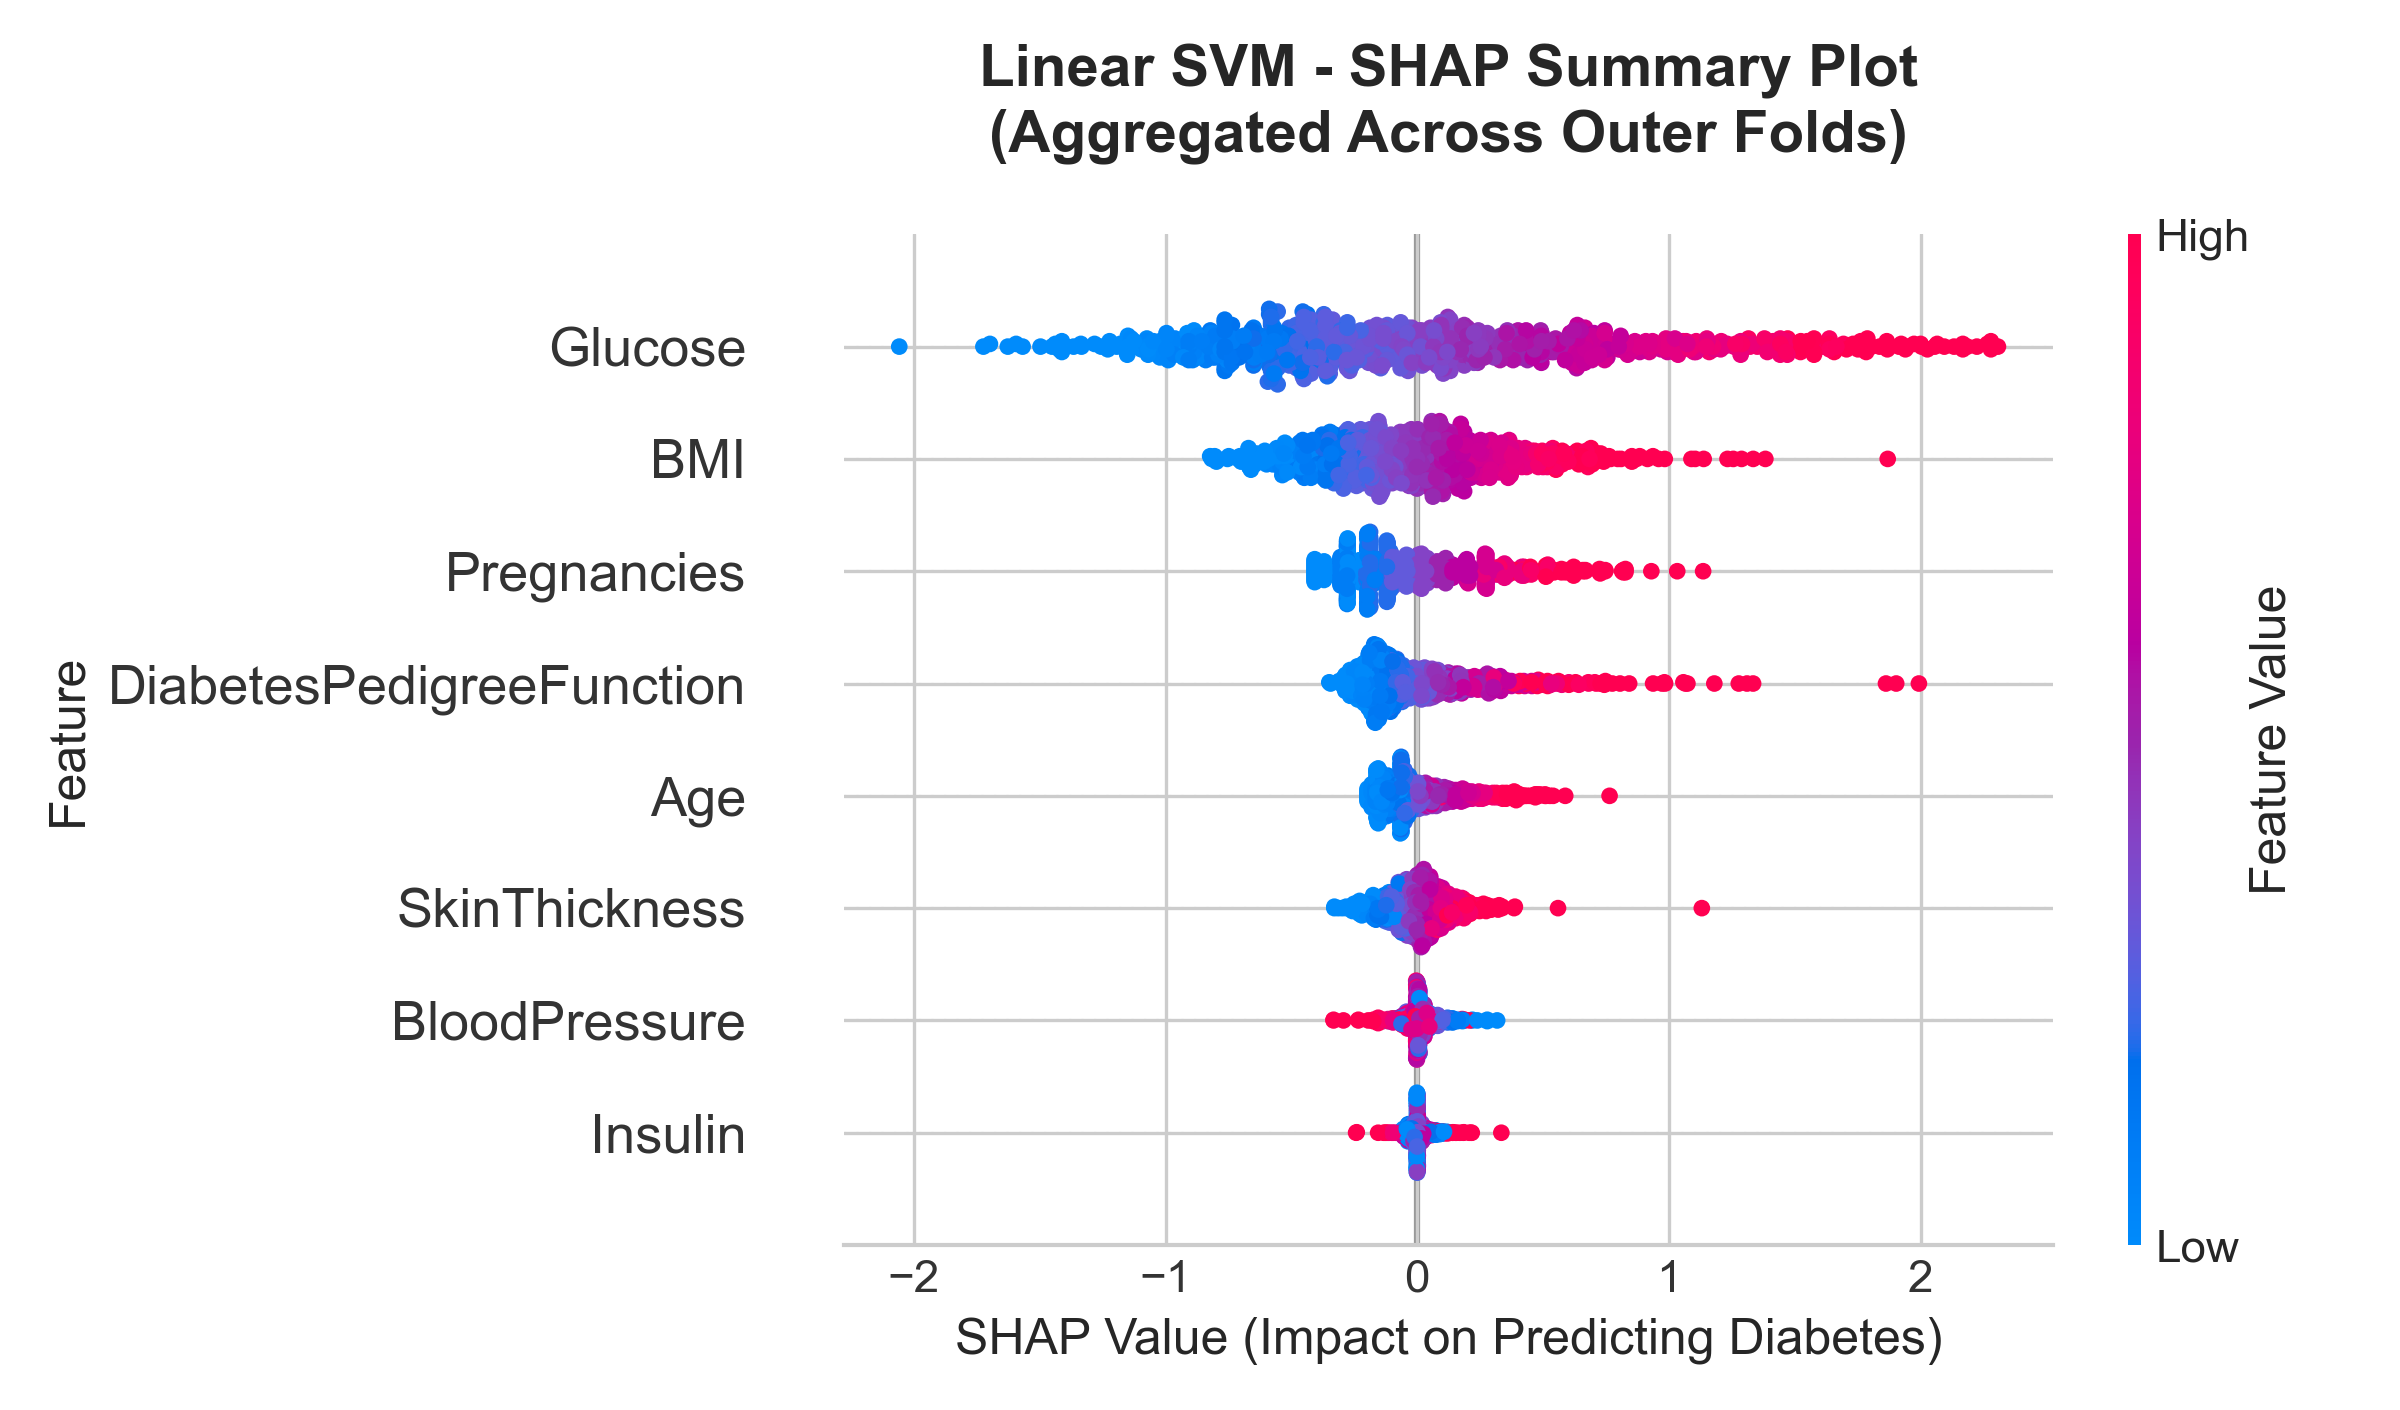
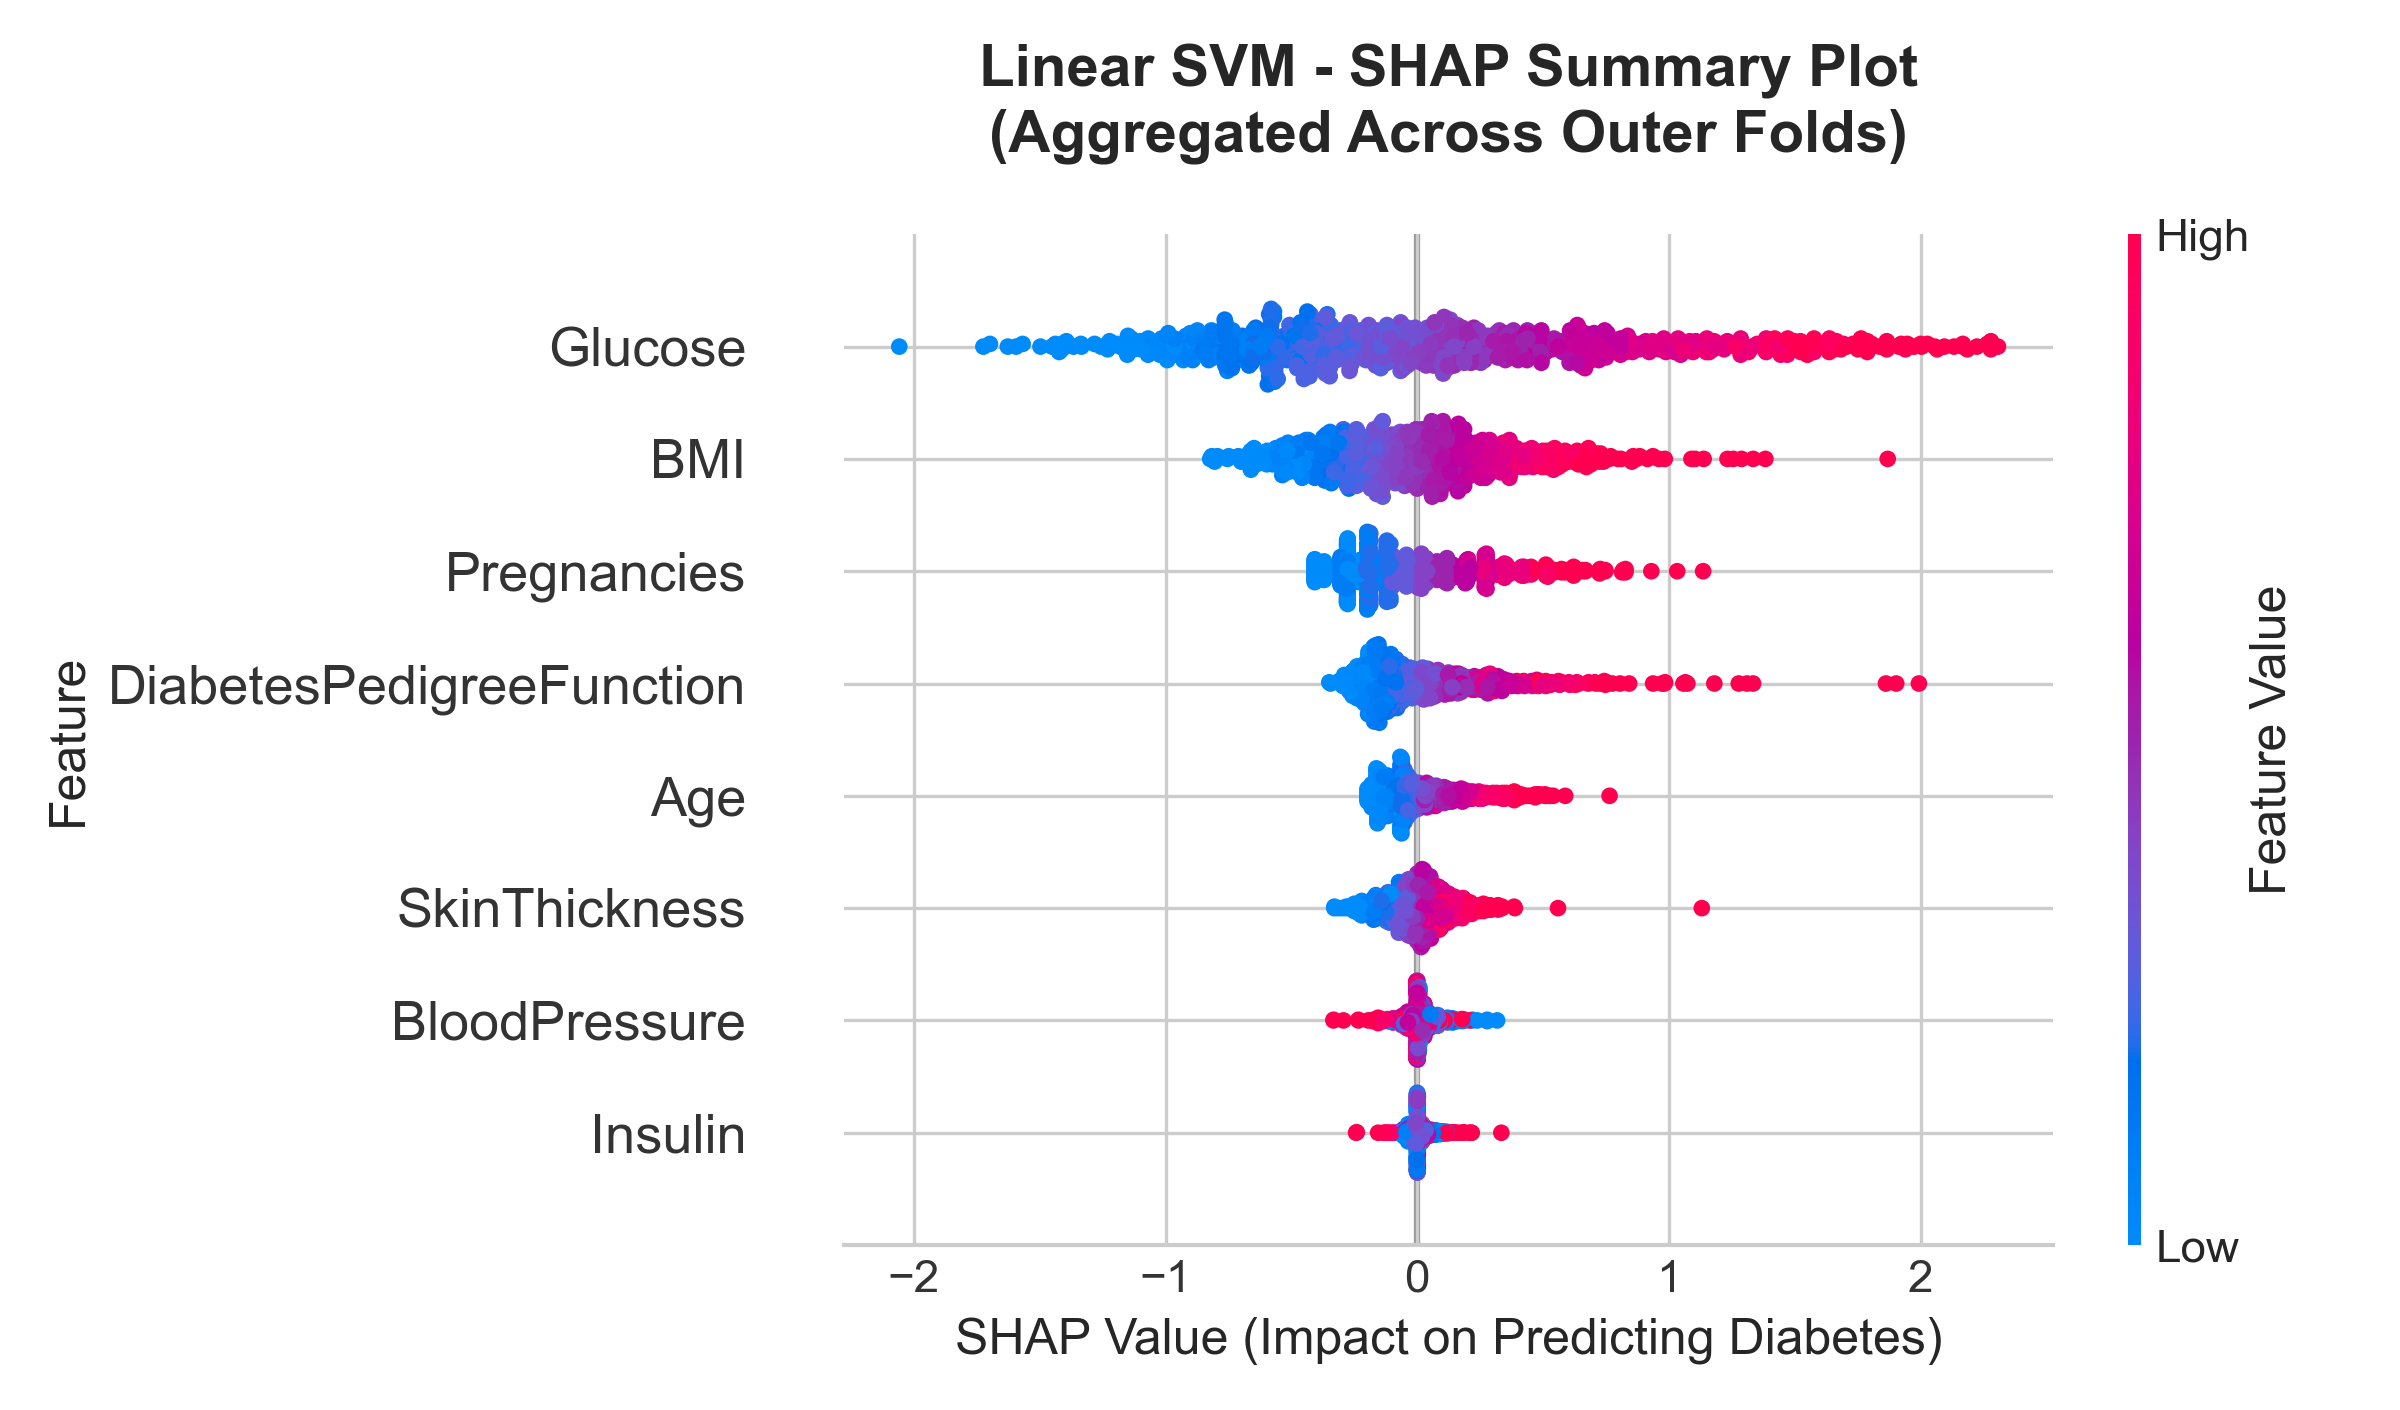
pushing plot results inside new folder 'pipeline_output. also, new module in support.

diff --git a/support/shap_module.py b/support/shap_module.py
@@ -1,0 +1,128 @@
+import os
+import numpy as np
+import shap
+import matplotlib.pyplot as plt
+
+def plot_shap_summary(results, X, y, splits, outdir = '../pipeline_output/shap/'):
+    """
+    Generate a SHAP summary plot per model, aggregating across all outer folds. 
+    - results: dict from evaluate_models, containing 'estimator' list per model
+    - X, y: pandas DataFrame/Series of full dataset
+    - splits: list of (train_idx, test_idx) from the same StratifiedKFold
+    - outdir: directory to save PNGs
+
+    """
+    os.makedirs(outdir, exist_ok = True)
+
+    feature_names = X.columns
+
+    for name, cv_results in results.items():
+        
+        #accumulate SHAP-values and features
+        all_shap_values = []
+        all_feature_data = []
+
+        for i, (_, test_idx) in enumerate(splits):
+            gs = cv_results['estimator'][i] #gs is GridSearchCV object
+            pipeline = gs.best_estimator_
+            clf = pipeline.named_steps['clf']
+            
+            #prepare test data
+            X_test = X.iloc[test_idx]
+            #apply fitted preprocessing
+            X_imp = pipeline.named_steps['imputer'].transform(X_test)
+            X_scaled = pipeline.named_steps['scaler'].transform(X_imp)
+
+            model_type = type(clf).__name__.lower()
+
+            # TreeExplainer for RandomForest
+            if 'randomforest' in model_type:
+                explainer = shap.TreeExplainer(clf)
+                shap_vals = explainer.shap_values(X_scaled)
+
+                print("RandomForest classes_: ", clf.classes_)
+                print(f"Raw TreeExplainer SHAP shape: {np.shape(shap_vals)}")
+
+                if isinstance(shap_vals, np.ndarray) and shap_vals.ndim == 3:
+                    # shape = (n_samples, n_features, n_classes)
+                    if 1 in clf.classes_:
+                        class_index = list(clf.classes_).index(1)
+                    else:
+                        class_index = 0
+                    shap_vals = shap_vals[:, :, class_index]
+                    print(f"Selected class SHAP shape: {shap_vals.shape}")
+                elif isinstance(shap_vals, list):  # fallback for older SHAP versions
+                    shap_vals = shap_vals[1]
+                else:
+                    raise ValueError(f"Unexpected SHAP format for RandomForest: {type(shap_vals)}, shape: {np.shape(shap_vals)}")
+
+            # KernelExplainer for KNeighborsClassifier
+            elif 'kneighbors' in model_type or 'knn' in model_type:
+                # Use all data points as background
+                background = X_scaled #computationally unfeasible for large datasets
+                explainer = shap.KernelExplainer(clf.predict_proba, background)
+                shap_vals = explainer.shap_values(X_scaled, n_samples = None)
+
+                # ---- fix shape: (n_samples, n_features, n_classes) ----
+                
+                print("KNN classes_: ", clf.classes_)
+                print(f"Raw shap_vals shape: {np.shape(shap_vals)}")
+
+                if isinstance(shap_vals, np.ndarray) and shap_vals.ndim == 3:
+                    # Select shap values for the positive class:
+                    if 1 in clf.classes_:
+                        class_index = list(clf.classes_).index(1)
+                    else:
+                        class_index = 0
+                    shap_vals = shap_vals[:, :, class_index]
+
+                    print(f"Selected class SHAP shape: {shap_vals.shape}")
+                else:
+                    raise ValueError(
+                        f"KNN SHAP values not in expected shape. Got {np.shape(shap_vals)}"
+                    )
+
+            # LinearExplainer for LogisticRegression, and SVC using linear kernel
+            elif 'logisticregression' in model_type or ( 'svc' in model_type and hasattr(clf, 'kernel')
+                                                        and clf.kernel == 'linear'):
+                explainer = shap.LinearExplainer(clf, X_scaled)
+                shap_vals = explainer.shap_values(X_scaled)
+
+                if isinstance(shap_vals, list) and len(shap_vals) > 1:
+                    shap_vals = shap_vals[1]
+            else:
+                raise NotImplementedError(
+                    f"SHAP explainer not set up for model type: {model_type}."
+                    "Update function to handle your new classifier."
+                )
+            
+            print(f"[DEBUG] {name} fold {i}: shap_vals shape {np.shape(shap_vals)}, X_scaled shape {np.shape(X_scaled)}")
+           
+
+            all_shap_values.append(shap_vals)
+            all_feature_data.append(X_scaled)
+            
+        # concatenate over folds
+        all_shap_values = np.vstack(all_shap_values)
+        all_feature_data = np.vstack(all_feature_data)
+        print(f"all_shap_vals shape: {all_shap_values.shape}")
+        print(f"all_feature_data shape: {all_feature_data.shape}")
+
+        # plot SHAP summary
+        plt.figure(figsize = (8, 6))
+        shap.summary_plot(
+            all_shap_values,
+            all_feature_data,
+            feature_names = feature_names,
+            show = False
+        )
+
+        plt.title(f"{name} SHAP Summary (Aggregated Across Folds)")
+        plt.xlabel("SHAP Value (Impact on Predicting Diabetes)")
+        plt.ylabel("Features")
+        
+        plt.tight_layout()
+        plt.savefig(f"{outdir}/{name}_shap.png", dpi = 300, bbox_inches='tight')
+        plt.close()
+
+            

diff --git a/main/model_pipeline.py b/main/model_pipeline.py
@@ -2,22 +2,13 @@
 import numpy as np
 import pandas as pd
 from sklearn.pipeline import Pipeline
-from sklearn.impute import KNNImputer, SimpleImputer
+from sklearn.impute import KNNImputer
 from sklearn.preprocessing import StandardScaler
 from sklearn.ensemble import RandomForestClassifier
 from sklearn.linear_model import LogisticRegression
 from sklearn.svm import SVC
 from sklearn.neighbors import KNeighborsClassifier
 from sklearn.model_selection import GridSearchCV, StratifiedKFold, cross_validate
-from sklearn.metrics import (
-    make_scorer,
-    accuracy_score,
-    precision_score,
-    recall_score,
-    f1_score,
-    roc_auc_score,
-    confusion_matrix,
-)
 
 # ---- Importing custom module for plotting ----
 import os
@@ -27,6 +18,9 @@ this_dir = os.path.dirname(os.path.realpath(__file__))
 project_root = os.path.abspath(os.path.join(this_dir, '..'))
 sys.path.insert(0, project_root)
 from support.plotting_module import plot_roc_curves, plot_confusion_matrices
+from support.shap_module import plot_shap_summary
+# --------------------------------
+
 
 
 
@@ -59,10 +53,6 @@ def load_data():
     return X, y
 
 def evaluate_models(X, y):
-    #ideal imputer was defined from proc_data.ipynb in a cross-validation test loop.
-    #imputer = KNNImputer(n_neighbors=5)
-    imputer = SimpleImputer(strategy='median')  # Use SimpleImputer for simplicity in this example
-    scaler = StandardScaler()
 
     #model selection
     models = {
@@ -87,7 +77,7 @@ def evaluate_models(X, y):
         },
         'KNN' : {
             'clf__n_neighbors': [3, 5, 7, 15, 20],
-            'clf__weights': ['uniform', 'distance']
+            'clf__weights': ['uniform']
         },
         'RandomForest' : {
             'clf__n_estimators': [50, 100],
@@ -117,6 +107,11 @@ def evaluate_models(X, y):
     # Loop through each model
     for name, base_clf in models.items():
         print(f"\n### Evaluating {name}... ###")
+
+        #ideal imputer was defined from proc_data.ipynb in a cross-validation test loop. reinstantiate in loop to minimize dataleakage. 
+        imputer = KNNImputer(n_neighbors=5)
+        #imputer = SimpleImputer(strategy='median')  # Use SimpleImputer for simplicity in this example
+        scaler = StandardScaler()
 
         #build the pipeline
         pipeline = Pipeline([
@@ -154,12 +149,7 @@ def evaluate_models(X, y):
             return_estimator=True,
             n_jobs=1
         )
-        # for fold_idx, gs in enumerate(cv_results['estimator']):
-        #     print(f"\n— Fold {fold_idx+1} inner‐CV results —")
-        #     print(" Best params:", gs.best_params_)
-        #     # if you enabled multi‐metric scoring:
-        #     print(" F1  at best params:", gs.best_score_)
-        #     print(" Prec at best params:", gs.cv_results_['mean_test_precision'][gs.best_index_])
+       
         for fold_idx, gs in enumerate(cv_results['estimator']):
             print(f"\nFold {fold_idx+1} best inner‐CV params: {gs.best_params_}")
             for metric in scoring.keys():  
@@ -181,6 +171,7 @@ def evaluate_models(X, y):
                 f' {metric:10s} train: {np.mean(train_scores):.3f} ± {np.std(train_scores):.3f} '
                 f'test: {np.mean(test_scores):.3f} ± {np.std(test_scores):.3f}'
             )
+    
     return all_results
 
 def main():
@@ -192,12 +183,14 @@ def main():
     results = evaluate_models(X, y)
     
     # #Reconstruct outer CV splits for consistent plotting
-    # outer_cv = StratifiedKFold(n_splits=5, shuffle=True, random_state=42)
-    # splits = list(outer_cv.split(X, y))
+    outer_cv = StratifiedKFold(n_splits=5, shuffle=True, random_state=42)
+    splits = list(outer_cv.split(X, y))
 
     #Plot and save
-    # plot_roc_curves(results, X.values, y.values, splits)
-    # plot_confusion_matrices(results, X.values, y.values, splits)
+    plot_roc_curves(results, X, y, splits)
+    plot_confusion_matrices(results, X, y, splits)
+    plot_shap_summary(results, X, y, splits)
+    print("\nModel evaluation and plotting complete. Outputs saved in pipeline_output directory.")
 
 
 

diff --git a/support/plotting_module.py b/support/plotting_module.py
@@ -2,47 +2,57 @@ import os
 import matplotlib.pyplot as plt
 import seaborn as sns
 import numpy as np
-from sklearn.metrics import roc_curve, confusion_matrix
+from sklearn.metrics import roc_curve, confusion_matrix, roc_auc_score
 
-def plot_roc_curves(results, X, y, splits, outdir = '../../output/pipeline_output/roc/'):
+def plot_roc_curves(results, X, y, splits, outdir = '../pipeline_output/roc/'):
     os.makedirs(outdir, exist_ok=True)
     for name, cv_results in results.items():
         plt.figure(figsize=(6,6))
-        for i, (train_idx, test_idx) in enumerate(splits):
+        for i, (_ , test_idx) in enumerate(splits):
             gs = cv_results['estimator'][i]
             best_model = gs.best_estimator_
-            y_score = best_model.predict_proba(X[test_idx])[:,1]
-            fpr, tpr, _ = roc_curve(y[test_idx], y_score)
-            plt.plot(fpr, tpr, label=f"Fold {i+1}")
+            y_score = best_model.predict_proba(X.iloc[test_idx])[:,1]
+            fpr, tpr, _ = roc_curve(y.iloc[test_idx], y_score)
+            auc = roc_auc_score(y.iloc[test_idx], y_score)
+            plt.plot(fpr, tpr, label=f"Fold {i+1} (AUC={auc:.3f})")
         plt.plot([0,1],[0,1], 'k--', alpha=0.3)
         plt.title(f"{name} ROC Curve (outer CV)")
         plt.xlabel("False Positive Rate")
         plt.ylabel("True Positive Rate")
         plt.legend(loc="lower right")
         plt.tight_layout()
-        plt.savefig(f"{outdir}/{name}_roc.png")
+        plt.savefig(f"{outdir}/{name}_roc.png", dpi = 300)
         plt.close()
 
-def plot_confusion_matrices(results, X, y, splits, outdir = '../../output/pipeline_output/cm/'):
+def plot_confusion_matrices(results, X, y, splits, outdir = '../pipeline_output/cm/'):
     os.makedirs(outdir, exist_ok=True)
+    n_folds = len(splits)
+
     for name, cv_results in results.items():
-        total_cm = np.zeros((2,2), dtype=float)
-        total_samples = 0
-        for i, (train_idx, test_idx) in enumerate(splits):
+        #accumulator for the percent-matrix of each fold
+        sum_pct_cm = np.zeros((2,2), dtype = float)
+        for i, (_, test_idx) in enumerate(splits):
             gs = cv_results['estimator'][i]
-            best_model = gs.best_estimator_
-            y_pred = best_model.predict(X[test_idx])
-            cm = confusion_matrix(y[test_idx], y_pred)
-            total_cm += cm
-            total_samples += len(test_idx)
-        # convert to percentage
-        cm_perc = total_cm / total_samples * 100
-        plt.figure(figsize=(4,4))
-        sns.heatmap(cm_perc, annot=True, fmt=".1f", cmap="Blues",
-                    xticklabels=["neg","pos"], yticklabels=["neg","pos"])
+            best_model = gs.best_estimator_ 
+
+            #get true vs- pred on this fold's test set
+            y_true = y.iloc[test_idx]
+            y_pred = best_model.predict(X.iloc[test_idx])
+
+            #raw counts
+            cm = confusion_matrix(y_true, y_pred).astype(float)
+
+            # normalize *this* cm to percentage *of that fold's total*:
+            cm_pct = cm/ cm.sum(axis=1, keepdims=True) * 100
+            sum_pct_cm += cm_pct
+
+        #average across folds
+        avg_cm = sum_pct_cm / n_folds
+        plt.figure(figsize=(6,5))
+        sns.heatmap(avg_cm, annot=True, fmt=".1f", cmap="Blues", cbar = True,
+                    xticklabels=["No Diabetes","Diabetes"], yticklabels=["No Diabetes","Diabetes"])
         plt.title(f"{name} Avg. Confusion Matrix (%)")
         plt.xlabel("Predicted label")
         plt.ylabel("True label")
-        plt.tight_layout()
-        plt.savefig(f"{outdir}/{name}_cm.png")
+        plt.savefig(f"{outdir}/{name}_cm.png", dpi = 300)
         plt.close()
